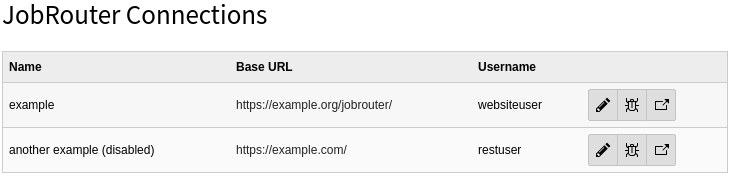
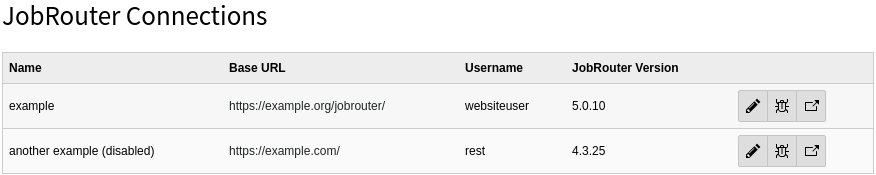
[FEATURE] Add JobRouter version to connection for informational purposes

diff --git a/Resources/Private/Templates/Backend/List.html b/Resources/Private/Templates/Backend/List.html
@@ -42,6 +42,7 @@
                     <th scope="col"><f:translate key="LLL:EXT:jobrouter_connector/Resources/Private/Language/Database.xlf:tx_jobrouterconnector_domain_model_connection.name"/></th>
                     <th scope="col"><f:translate key="LLL:EXT:jobrouter_connector/Resources/Private/Language/Database.xlf:tx_jobrouterconnector_domain_model_connection.base_url"/></th>
                     <th scope="col"><f:translate key="LLL:EXT:jobrouter_connector/Resources/Private/Language/Database.xlf:tx_jobrouterconnector_domain_model_connection.username"/></th>
+                    <th scope="col"><f:translate key="LLL:EXT:jobrouter_connector/Resources/Private/Language/Database.xlf:tx_jobrouterconnector_domain_model_connection.jobrouter_version"/></th>
                     <th scope="col"></th>
                 </tr>
             </thead>
@@ -56,6 +57,7 @@
                         </td>
                         <td><f:link.external uri="{connection.baseUrl}" target="_blank" rel="noopener noreferrer">{connection.baseUrl}</f:link.external></td>
                         <td>{connection.username}</td>
+                        <td>{connection.jobrouterVersion}</td>
                         <td>
                             <div class="btn-group">
                                 <be:link.editRecord class="btn btn-default" table="tx_jobrouterconnector_domain_model_connection" uid="{connection.uid}" title="{f:translate(key: 'LLL:EXT:jobrouter_connector/Resources/Private/Language/BackendModule.xlf:action.edit_connection')}">

diff --git a/Classes/RestClient/RestClientFactory.php b/Classes/RestClient/RestClientFactory.php
@@ -10,12 +10,17 @@ namespace Brotkrueml\JobRouterConnector\RestClient;
  * LICENSE.txt file that was distributed with this source code.
  */
 
+use Brotkrueml\JobRouterClient\Client\ClientInterface;
 use Brotkrueml\JobRouterClient\Client\RestClient;
 use Brotkrueml\JobRouterClient\Configuration\ClientConfiguration;
 use Brotkrueml\JobRouterClient\Exception\ExceptionInterface;
 use Brotkrueml\JobRouterConnector\Domain\Model\Connection;
+use Brotkrueml\JobRouterConnector\Domain\Repository\ConnectionRepository;
 use Brotkrueml\JobRouterConnector\Service\Crypt;
 use TYPO3\CMS\Core\Utility\ExtensionManagementUtility;
+use TYPO3\CMS\Core\Utility\GeneralUtility;
+use TYPO3\CMS\Extbase\Object\ObjectManager;
+use TYPO3\CMS\Extbase\Persistence\Generic\PersistenceManager;
 
 final class RestClientFactory
 {
@@ -29,10 +34,10 @@ final class RestClientFactory
      *
      * @param Connection $connection The connection model
      * @param int|null $lifetime Optional lifetime argument
-     * @return RestClient
+     * @return ClientInterface
      * @throws ExceptionInterface
      */
-    public function create(Connection $connection, ?int $lifetime = null): RestClient
+    public function create(Connection $connection, ?int $lifetime = null): ClientInterface
     {
         $decryptedPassword = (new Crypt())->decrypt($connection->getPassword());
 
@@ -47,7 +52,11 @@ final class RestClientFactory
             $configuration = $configuration->withLifetime($lifetime);
         }
 
-        return new RestClient($configuration);
+        $client = new RestClient($configuration);
+
+        $this->updateJobRouterVersion($client, $connection);
+
+        return $client;
     }
 
     private function getUserAgentAddition(): string
@@ -58,5 +67,22 @@ final class RestClientFactory
         }
 
         return \sprintf('TYPO3Connector/%s', static::$version);
+    }
+
+    private function updateJobRouterVersion(ClientInterface $client, Connection $connection): void
+    {
+        if ($client->getJobRouterVersion() === $connection->getJobrouterVersion()) {
+            return;
+        }
+
+        $objectManager = GeneralUtility::makeInstance(ObjectManager::class);
+
+        $connection->setJobrouterVersion($client->getJobRouterVersion());
+
+        $connectionRepository = $objectManager->get(ConnectionRepository::class);
+        $connectionRepository->update($connection);
+
+        $persistenceManager = $objectManager->get(PersistenceManager::class);
+        $persistenceManager->persistAll();
     }
 }

diff --git a/Configuration/TCA/tx_jobrouterconnector_domain_model_connection.php b/Configuration/TCA/tx_jobrouterconnector_domain_model_connection.php
@@ -15,7 +15,7 @@ return [
         'iconfile' => 'EXT:jobrouter_connector/Resources/Public/Icons/tx_jobrouterconnector_domain_model_connection.svg'
     ],
     'interface' => [
-        'showRecordFieldList' => 'disabled, name, base_url, username, password',
+        'showRecordFieldList' => 'disabled, name, base_url, username, password, jobrouter_version',
     ],
     'columns' => [
         'disabled' => [
@@ -73,13 +73,33 @@ return [
                 'eval' => 'nospace,password,required,' . \Brotkrueml\JobRouterConnector\Evaluation\Password::class
             ]
         ],
+        'jobrouter_version' => [
+            'exclude' => true,
+            'label' => 'LLL:EXT:jobrouter_connector/Resources/Private/Language/Database.xlf:tx_jobrouterconnector_domain_model_connection.jobrouter_version',
+            'description' => 'LLL:EXT:jobrouter_connector/Resources/Private/Language/Database.xlf:tx_jobrouterconnector_domain_model_connection.jobrouter_version.description',
+            'config' => [
+                'type' => 'input',
+                'size' => 10,
+                'max' => 10,
+                'readOnly' => true,
+            ],
+        ],
     ],
     'types' => [
         '1' => ['showitem' => '
-            name, base_url, username, password,
+            name, base_url,
+            --palette--;;credentials,
+            --div--;LLL:EXT:jobrouter_connector/Resources/Private/Language/Database.xlf:tab.information,
+            jobrouter_version,
             --div--;LLL:EXT:core/Resources/Private/Language/Form/locallang_tabs.xlf:access,
             disabled,
             --div--;LLL:EXT:frontend/Resources/Private/Language/locallang_tca.xlf:pages.tabs.extended,
         '],
+    ],
+    'palettes' => [
+        'credentials' => [
+            'label' => 'LLL:EXT:jobrouter_connector/Resources/Private/Language/Database.xlf:palette.credentials',
+            'showitem' => 'username, password',
+        ],
     ],
 ];

diff --git a/Classes/Domain/Model/Connection.php b/Classes/Domain/Model/Connection.php
@@ -28,6 +28,9 @@ class Connection extends AbstractEntity
     /** @var string */
     protected $password = '';
 
+    /** @var string */
+    protected $jobrouterVersion = '';
+
     /** @var bool */
     protected $disabled = false;
 
@@ -69,6 +72,16 @@ class Connection extends AbstractEntity
     public function setPassword(string $password): void
     {
         $this->password = $password;
+    }
+
+    public function getJobrouterVersion(): string
+    {
+        return $this->jobrouterVersion;
+    }
+
+    public function setJobrouterVersion(string $jobrouterVersion): void
+    {
+        $this->jobrouterVersion = $jobrouterVersion;
     }
 
     public function isDisabled(): bool

diff --git a/Documentation/conf.py b/Documentation/conf.py
@@ -25,9 +25,9 @@ copyright = u'2020, Chris Müller'
 author = u'Chris Müller'
 
 # The short X.Y version
-version = u'0.8'
+version = u'0.9'
 # The full version, including alpha/beta/rc tags
-release = u'0.8.0'
+release = u'0.9.0-dev'
 
 
 # -- General configuration ---------------------------------------------------

diff --git a/ext_emconf.php b/ext_emconf.php
@@ -6,7 +6,7 @@ $EM_CONF[$_EXTKEY] = [
     'author' => 'Chris Müller',
     'author_email' => 'typo3@krue.ml',
     'state' => 'beta',
-    'version' => '0.8.0',
+    'version' => '0.9.0-dev',
     'constraints' => [
         'depends' => [
             'typo3' => '9.5.0-9.5.99',

diff --git a/Documentation/usage.rst b/Documentation/usage.rst
@@ -46,6 +46,9 @@ bar, which displays a form:
 
 The following fields are available:
 
+General
+-------
+
 :aspect:`Name`
 
    Use a name you recognise. This can be the name of the JobRouter installation
@@ -62,6 +65,17 @@ The following fields are available:
 :aspect:`Password`
 
    The password to be used. It will be stored encrypted in the database.
+
+Information
+-----------
+
+:aspect:`JobRouter Version`
+
+   The version of the JobRouter installation. The version is automatically
+   detected when a connection is established and therefore cannot be changed.
+
+Access
+------
 
 :aspect:`Enabled`
 
@@ -100,7 +114,8 @@ There are three buttons available for each connection:
 .. image:: _images/connection-buttons.png
 
 - You can edit a connection with the pencil.
-- Click on the bug icon to test a connection.
+- Click on the bug icon to test a connection. This will also update the
+  JobRouter version if necessary.
 - The last icon is a link to the JobRouter installation.
 
 
